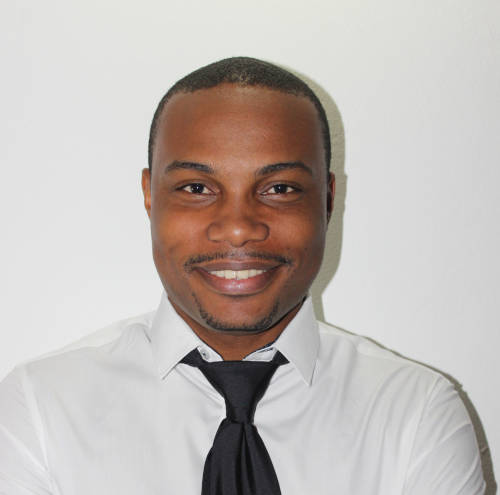
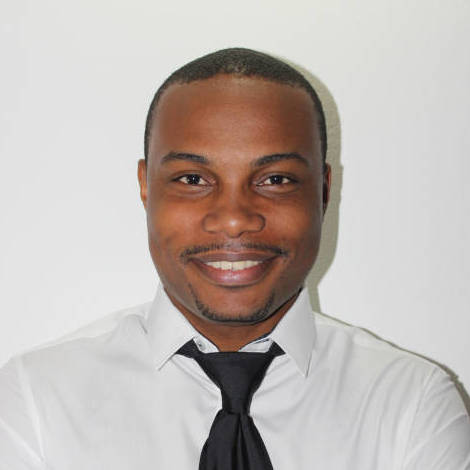
responsive home

diff --git a/src/components/HomeFace.js b/src/components/HomeFace.js
@@ -1,15 +1,24 @@
 import React from 'react';
 import styled from 'styled-components';
 import { useSpring, animated, config } from 'react-spring';
+import { device } from '../mediaqueries';
 
 const FaceImgImpl = styled.img`
-    display: block;
-    max-height: 100%;
+    grid-column: 1/3;
+    grid-row: 2;
+    justify-self: center;
+    align-self: center;
+    object-fit: cover;
+    height: 100%;
     width: auto;
     border-radius: 50%;
-    margin-left: auto;
-    margin-right: auto;
     box-shadow: 0 0 0 15px hsl(0, 0%, 85%), 0 0 0 30px hsl(0, 0%, 95%);
+    @media ${device.tablet} {
+        grid-column: 2;
+        grid-row: 2/5;
+        height: 75%;
+        justify-self: left;
+    }
 `;
 
 const FaceImg = animated(FaceImgImpl);
@@ -22,10 +31,5 @@ export default function HomeFace() {
         },
         from: { opacity: 0 }
     });
-    return (
-        <>
-            <FaceImg style={props} src="/images/face.jpg"></FaceImg>
-        </>
-    );
+    return <FaceImg style={props} src="/images/face.jpg"></FaceImg>;
 }
-//

diff --git a/src/components/HomeInfo.js b/src/components/HomeInfo.js
@@ -1,14 +1,33 @@
 import React from 'react';
 import styled from 'styled-components';
 import HomeInfoContact from './HomeInfoContact';
+import { device } from '../mediaqueries';
 
 const Root = styled.div`
+    grid-column: 1/3;
+    grid-row: 4;
+    justify-content: right;
     font-weight: bold;
     justify-self: center;
     display: grid;
     grid-template-columns: 1fr;
     grid-template-rows: 2fr 1fr 1fr 1fr 1fr;
     grid-gap: 20px;
+    margin-top: 3rem;
+
+    @media ${device.tablet} {
+        grid-column: 1;
+        grid-row: 2/5;
+        align-self: center;
+        justify-self: end;
+        padding-top: 3rem;
+        margin-right: 5rem;
+        margin-top: 0rem;
+        padding-left: 2rem;
+    }
+    @media ${device.laptop} {
+        margin-right: 10rem;
+    }
 `;
 
 export default function HomeTitle() {

diff --git a/src/components/Home.js b/src/components/Home.js
@@ -3,19 +3,23 @@ import styled from 'styled-components';
 import HomeFace from './HomeFace';
 import HomeInfo from './HomeInfo';
 
+import { device } from '../mediaqueries';
+
 const Root = styled.div`
     height: 92vh;
     display: grid;
-    grid-template-columns: 100%;
+    grid-template-columns: 1fr 1fr;
     grid-template-rows: 10% 30% 5% 15% 15%;
 `;
+
+const StyledHomeFace = styled.div``;
+
+const StyledHomeInfo = styled.div``;
 
 export default function Home() {
     return (
         <Root>
-            <div></div>
             <HomeFace></HomeFace>
-            <div></div>
             <HomeInfo></HomeInfo>
         </Root>
     );

diff --git a/src/App.js b/src/App.js
@@ -10,6 +10,12 @@ const Root = styled.div`
     color: ${props => props.theme.textPrimary};
     font-family: 'Montserrat', sans-serif;
     height: 100vh;
+    width: 100vw;
+`;
+
+const Content = styled.div`
+    margin-left: 1rem;
+    margin-right: 1rem;
 `;
 
 function App() {
@@ -17,7 +23,9 @@ function App() {
         <ThemeProvider theme={theme}>
             <Root className="App">
                 <Navbar></Navbar>
-                <Home></Home>
+                <Content>
+                    <Home></Home>
+                </Content>
             </Root>
         </ThemeProvider>
     );

diff --git a/src/components/NavbarItem.js b/src/components/NavbarItem.js
@@ -9,8 +9,8 @@ const Root = styled.div`
     justify-content: center;
     align-items: center;
     cursor: pointer;
-    padding-right: 8px;
-    padding-left: 8px;
+    padding-right: 0.5rem;
+    padding-left: 0.5rem;
     flex-basis: 20%;
 `;
 
